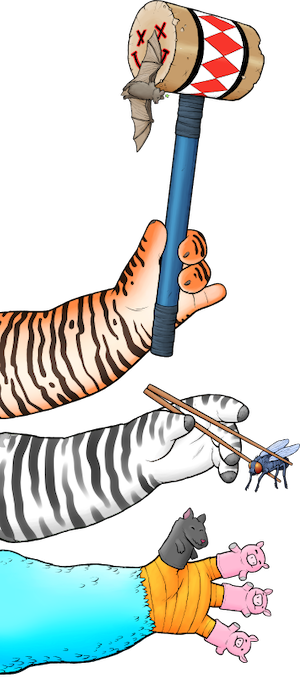
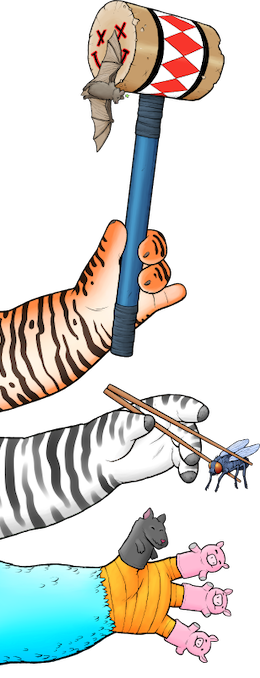
more ui tweaks

diff --git a/src/config/chimerapillars.js b/src/config/chimerapillars.js
@@ -14,11 +14,16 @@ const config = {
           highlight: '#545284',
      },
      nav: {
-          BUTTONS: ['Toddlerpillars', 'About', 'Roadmap', 'OpenSea'],
-          MOBILEBUTTONS: ['Toddlerpillars', 'About', 'Roadmap', 'OpenSea'],
-          PATHS: [null, '/about', '/roadmap', null],
-          DROPMENU: ['About Toddlerpillars', 'Mythology', 'History'],
-          DROPMENUPATHS: ['/about', '/mythology', '/history'],
+          BUTTONS: ['Toddlerpillars', 'About', 'Mythology', 'History', 'Roadmap'],
+          MOBILEBUTTONS: ['Toddlerpillars', 'About', 'Mythology', 'History', 'Roadmap'],
+          PATHS: [null, 'https://toddlerpillars.com/#/about', 'https://toddlerpillars.com/#/mythology', 'https://toddlerpillars.com/#/history', 'https://toddlerpillars.com/#/roadmap'],
+          DROPMENU: [],
+          DROPMENUPATHS: [],
+          // BUTTONS: ['Toddlerpillars', 'About', 'Roadmap', 'OpenSea'],
+          // MOBILEBUTTONS: ['Toddlerpillars', 'About', 'Roadmap', 'OpenSea'],
+          // PATHS: [null, '/about', '/roadmap', null],
+          // DROPMENU: ['About Toddlerpillars', 'Mythology', 'History'],
+          // DROPMENUPATHS: ['/about', '/mythology', '/history'],
      },
      socials: {
           twitter: {

diff --git a/src/components/Header/Header.jsx b/src/components/Header/Header.jsx
@@ -366,8 +366,14 @@ const Header = () => {
 	}, [isMobileView]);
 
 	const handleNavigation = (i) => {
-		setMenuOpened(false);
-		history.push(PATHS[i]);
+		const path = PATHS[i]
+
+		if (/^http/i.test(path)) {
+			window.open(path)
+		} else {
+			setMenuOpened(false);
+			history.push(path);
+		}
 	};
 	const handleNavigationAbout = (i) => {
 		setMenuOpened(false);
@@ -397,7 +403,7 @@ const Header = () => {
 									</a>
 								);
 							}
-							if (btn === 'About') {
+							if (btn === 'About' && DROPMENU.length) {
 								return (
 									<>
 										<Box onMouseLeave={() => setOpenAbout(false)}>
@@ -480,7 +486,14 @@ const Header = () => {
 						</Box>
 						<Box sx={{ px: '48px' }}>
 							{MOBILEBUTTONS.map((btn, i) => {
-								if (btn === 'About') {
+								if (btn === 'Toddlerpillars') {
+									return (
+										<a href={urlToddlerpillars} style={{ textDecoration: 'none' }}>
+											<HeaderButton key={btn} text='← Toddlerpillars.com' vertical />
+										</a>
+									);
+								}
+								if (btn === 'About' && DROPMENU.length) {
 									return (
 										<>
 											<HeaderButton text='About' key={btn} active={activeTab === i} onClick={openMenu} vertical />

diff --git a/src/utils/arms.js b/src/utils/arms.js
@@ -153,7 +153,7 @@ if (config.PROJECT.id === 'chimerapillars') {
 		},
 		{
 			left: true,
-			top: 1439,
+			top: 1339,
 			image: armHome3Chimera,
 		},
 		{
